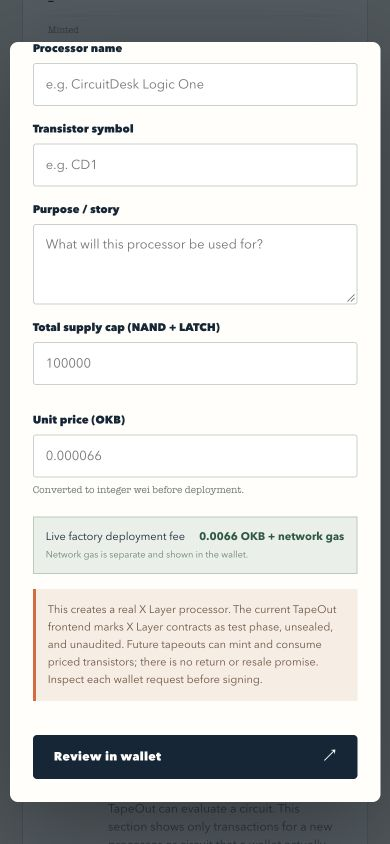
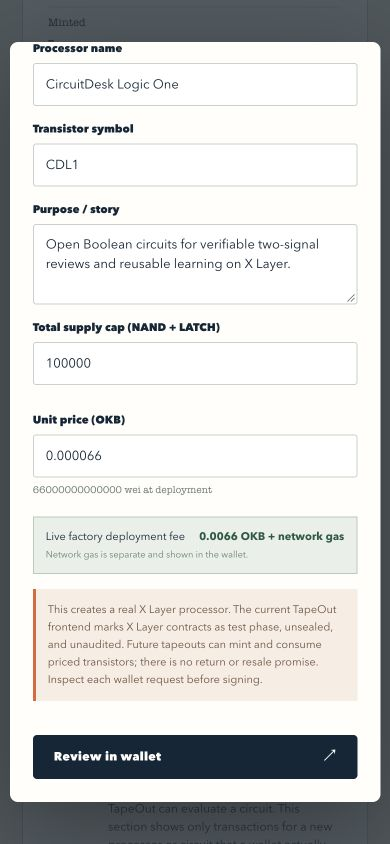
Keep the handoff aligned with the public demo we verified
The first source push exposed a working GitHub Pages build and an
independently reachable repository. This update records those observed
facts in the readiness file, form draft, QA log and hosted screenshots,
while leaving the required own-mainnet launch and video gates unmet.

Constraint: A public repository and third-party circuit reference do not satisfy the hackathon mainnet requirement.
Rejected: Mark the entry eligible after Pages went live | no CircuitDesk-owned processor or tapeout receipt exists.
Confidence: high
Scope-risk: narrow
Directive: Verify the actual processor, issuance terms, circuit and timestamps before replacing form placeholders or changing eligibility.
Tested: Unauthenticated repo and Pages reads, hosted browser eth_call, desktop/mobile responsive checks, five Node tests and JSON parse.
Not-tested: User wallet signatures, mainnet project launch, uploaded video and final Google Form submission.

diff --git a/review/qa/release-verification.md b/review/qa/release-verification.md
@@ -1,0 +1,24 @@
+# Public repository and hosted-release verification
+
+Reviewer: **strategy/QA agent C**. Read-only checks on 2026-09-30 Asia/Seoul. These checks are independent of the local Git checkout and use GitHub's remote API plus unauthenticated raw-file requests. GitHub Pages is tracked separately; creating Pages configuration alone is not proof that the site is serving the app.
+
+## Public GitHub package — PASS
+
+- Repository: [diveyreadytodive-star/circuitdesk-ignix-tapeout](https://github.com/diveyreadytodive-star/circuitdesk-ignix-tapeout). GitHub API returned `private=false`, `visibility=public`, default branch `main`.
+- Remote `main` HEAD returned **`9f4b423cef5e5829db88112bf42545e052717081`** at the time of this independent check. That was the initial pushed source commit, confirmed through GitHub API rather than the local checkout. A later evidence commit will change `main`; recheck the final HEAD after that push rather than treating this SHA as the final release revision.
+- The remote tree contained `README.md`, `LICENSE`, `web/main.js`, `tests/platform/browser.test.mjs`, and `readiness.json`.
+- Unauthenticated requests to `raw.githubusercontent.com/.../main/` returned **HTTP 200** for each required file: README (5,568 bytes), LICENSE (1,081), web app JS (44,929), tests (3,807), and readiness JSON (2,059). This independently confirms the files are public and nonempty.
+- The initial source commit's remotely fetched `readiness.json` said `eligibility: NOT_MET`, kept project processor/circuit addresses and transaction hashes `null`, `ownCircuitEthCallVerified: false`, `userVideoUrl: null`, and `formSubmitted: false`. It labeled the 100,000 cap and 0.000066 OKB price as **proposed, not deployed**. Its `remoteHeadVerified` and `hostedDemoVerified` fields were still false because it preceded this release check; the follow-up evidence commit should update only those verified delivery flags and keep mainnet/video/submission gates false.
+
+## Hosted demo — PASS for public read-only flow
+
+- Public URL: [CircuitDesk Pages](https://diveyreadytodive-star.github.io/circuitdesk-ignix-tapeout/). Unauthenticated HTTP GET returned **200** for the root (299-byte redirect document), `/web/` (15,904-byte CircuitDesk HTML), `/web/main.js` (44,929 bytes), `/src/platform/browser.js` (28,739 bytes), and `/readiness.json` (2,059 bytes). The root HTML refreshes to `web/`; the app HTML has the CircuitDesk title and relative `./main.js` and `./styles.css` references.
[1 lines of base64/hex data omitted]
+- With that matching adapter, C made a fresh **read-only** call to the existing third-party CPU #0/XOR circuit #1. At X Layer block **71989152**, input `[1,0]` returned output `[1]`, `execution: eth_call`, `transactionHash: null`. This demonstrates the published adapter's public read path, not CircuitDesk's own tapeout.
+- The leader independently opened the hosted app in IAB, observed three adapter templates and a reachable factory, and got the same public XOR output for input `1,0` at block **71989028** with no transaction. Hosted mobile 390 px had matching document/viewport scroll widths, one `h1`, and no console warnings/errors. C inspected the saved [hosted desktop](../ui/hosted-desktop.jpg) and [hosted mobile](../ui/hosted-mobile.jpg) screenshots. No wallet write was attempted.
+
+This verifies public hosting and a read-only product demo. It does **not** verify the mainnet processor/circuit issuance required for contest eligibility or any future wallet signature.
+
+## Remaining contest gate
+
+The public repo does **not** substitute for a user-signed mainnet processor creation and circuit tapeout on that processor before 2026-10-06 13:00 KST. The user video and final form submission are also pending. See [readiness.json](../../readiness.json) and [requirements-checklist.md](../../submission/requirements-checklist.md).

diff --git a/review/qa/browser-verification.md b/review/qa/browser-verification.md
@@ -1,6 +1,6 @@
 # Browser and visual verification
 
-Date: 2026-09-30 Asia/Seoul. **Leader** ran the live IAB browser against the local server at `http://127.0.0.1:4173/web/`. **Strategy/QA agent C** independently inspected all nine saved screenshots and reran the 5 Node tests. These checks show a usable development build; they do not show a user wallet transaction, our own mainnet processor, or a submitted contest entry.
+Date: 2026-09-30 Asia/Seoul. **Leader** ran the live IAB browser against the local server at `http://127.0.0.1:4173/web/` and later the public Pages URL. **Strategy/QA agent C** independently inspected all eleven saved screenshots and reran the 5 Node tests. These checks show a usable read-only build; they do not show a user wallet transaction, our own mainnet processor, or a submitted contest entry.
 
 ## Saved visual evidence
 
@@ -14,7 +14,9 @@ Date: 2026-09-30 Asia/Seoul. **Leader** ran the live IAB browser against the loc
 | Mobile landing | [mobile-landing.jpg](../ui/mobile-landing.jpg) | Header, hero and schematic reflow at 390 px viewport without horizontal clipping. |
 | Mobile workbench | [mobile-workbench.jpg](../ui/mobile-workbench.jpg) | Template panel followed by signal preview in a single-column flow. |
 | Mobile public chain result | [mobile-chain-proof.jpg](../ui/mobile-chain-proof.jpg) | Truth table, `eth_call` reference result at block 71986374, and preflight below it. The reference is labeled as an existing circuit. |
-| Mobile processor preflight | [mobile-create-preflight.jpg](../ui/mobile-create-preflight.jpg) | Processor fields, suggested 100,000 cap and 0.000066 OKB unit-price placeholders, current **0.0066 OKB + gas** creation fee, test-phase/unsealed/unaudited warning, and wallet-review CTA. This screenshot does **not** show a confirmed transaction. |
+| Hosted mobile processor preflight | [mobile-create-preflight.jpg](../ui/mobile-create-preflight.jpg) | Public Pages modal with **prefilled proposed** `CircuitDesk Logic One` / `CDL1` / purpose text, 100,000 cap, 0.000066 OKB unit price (`66,000,000,000,000` wei), live **0.0066 OKB + gas** creation fee, test-phase/unsealed/unaudited warning, and wallet-review CTA. No button click, signature or confirmed transaction is shown. |
+| Hosted desktop | [hosted-desktop.jpg](../ui/hosted-desktop.jpg) | Public Pages URL serving the CircuitDesk landing and workbench; no wallet state or own circuit is shown. |
+| Hosted mobile | [hosted-mobile.jpg](../ui/hosted-mobile.jpg) | Public Pages app at 390 px with template-to-preview single-column flow. |
 
 ## Live behavior reported by the leader
 
@@ -24,6 +26,7 @@ Date: 2026-09-30 Asia/Seoul. **Leader** ran the live IAB browser against the loc
 - Invalid CPU address ending in `dEaD` produced a friendly factory-verification error and kept tapeout disabled. Public CPU #0 has its 100,000-unit cap minted, so its tapeout preflight remained disabled by insufficient supply.
 - The create-processor dialog displayed the read live factory fee and risk warning. No wallet transaction was sent.
 - The final create-dialog source prefills exactly the reviewed **proposal** in [issuance-proposal.md](../../submission/issuance-proposal.md): `CircuitDesk Logic One`, `CDL1`, the public purpose sentence, 100,000 cap, and 0.000066 OKB per unit. These are editable inputs, not onchain values or proof of deployment.
+- On the **hosted Pages URL**, the leader's IAB pass found three adapter templates and a reachable X Layer factory. At mobile viewport 390 px, document scroll width was 390 px, there was one `h1`, and console warnings/errors were empty. The hosted app's public XOR reference returned output `1` for input `1,0` at block **71989028** through `eth_call` with no transaction. C separately checked public asset HTTP responses/hash parity and a fresh reference call; see [release QA](release-verification.md).
 
 ## Pending-write and receipt integrity checks (leader, live IAB)
 

diff --git a/submission/requirements-checklist.md b/submission/requirements-checklist.md
@@ -11,9 +11,9 @@ Status as of 2026-09-30 Asia/Seoul. **Verified** means this project has direct e
 | At least one circuit taped out on that processor in window | **Pending** | Successful mainnet receipt, circuit identity and processor link, block timestamp before 2026-10-06 13:00 KST, readback after reload. |
 | Real read-only circuit evaluation, if pitched | **Platform capability verified; our circuit pending** | An existing XOR circuit on CPU #0 returned `0,1,1,0` via chain-196 `eth_call`. Verify our own confirmed circuit against local truth table and label the result as a read-only call without a transaction hash. |
 | Clear use case | **Implemented locally; mainnet proof pending** | Guided “review disagreement check”: two manual flags, XOR truth table, component/fee preflight and public reference evaluation. It is advisory and does not enforce a release or wallet action. |
-| Product demo | **Local browser verified; public/video pending** | Localhost app captured at 1440×900 and 390×844 with no horizontal overflow and no console errors in the observed pass; [browser QA](../review/qa/browser-verification.md) records screenshots and error states. Still need public URL and user-recorded video. |
+| Product demo | **Hosted read-only build verified; user video pending** | [Public CircuitDesk app](https://diveyreadytodive-star.github.io/circuitdesk-ignix-tapeout/) and its JS/adapter assets returned HTTP 200 unauthenticated; hosted bytes matched tested source. Hosted desktop/mobile IAB and a fresh public-reference XOR `eth_call` were checked. See [release QA](../review/qa/release-verification.md). This does not show our own mainnet write; user-recorded video remains. |
 | Processor address and deployment wallet in submission | **Pending** | Verified public addresses added to README and form description. |
-| Public GitHub repository | **Created, upload not yet verified** | Repo URL: [circuitdesk-ignix-tapeout](https://github.com/diveyreadytodive-star/circuitdesk-ignix-tapeout). Confirm committed source, README, license, tests, remote HEAD and signed-out access after push. An empty repo does not close this gate. |
+| Public GitHub repository | **Verified public; recheck HEAD after each push** | [circuitdesk-ignix-tapeout](https://github.com/diveyreadytodive-star/circuitdesk-ignix-tapeout) was public at the independently checked initial source commit; unauthenticated raw requests returned HTTP 200 for README, LICENSE, app JS, tests and readiness JSON. The exact final remote HEAD should be verified after each subsequent push and reported separately. See [release QA](../review/qa/release-verification.md). |
 | No fake trading or fabricated usage | **Design constraint** | Never generate wash/matched/self trades or invent adoption. Keep separate transaction evidence. |
 | Contract security/economic model | **Proposal and local tests; mainnet risk remains** | Five Node tests pass; guarded Anvil fork completed create→mint→tapeout→eval, and exact [issuance proposal](issuance-proposal.md) separates three paid wallet actions. TapeOut's client warns X Layer contracts are in a test phase, unsealed, and not independently audited; no contract audit or real wallet write was performed. |
 | User contact and final form | **Reserved for user** | User enters Telegram/contact email, uploads video, reviews all fields and clicks Submit. Save actual receipt after submission. |

diff --git a/submission/form-draft.md b/submission/form-draft.md
@@ -11,7 +11,7 @@ CircuitDesk
 ```text
 CircuitDesk helps a newcomer understand and publish a small Boolean circuit on a TapeOut processor on X Layer. Its first task is a review disagreement check: two manually entered pass/needs-work flags feed XOR, which returns 1 when reviewers disagree. A guided template shows the local truth table, required components, and transaction terms before signing. After a confirmed tapeout, a shareable circuit passport links the processor, circuit ID, issuance settings, and X Layer receipt for independent verification. A separate read-only eth_call evaluates a deployed circuit; it has no transaction receipt and does not enforce a release decision.
 
-Our processor on X Layer mainnet (chain 196): [VERIFY processor contract address]. Deployment wallet: [VERIFY public wallet address]. TapeOut factory: 0x1f09daefa827f02cbb40967cc91b259763760761. Transistor supply: [VERIFY supply and units]. Unit price: [VERIFY amount, OKB and units]. Cap: [VERIFY value and scope]. Processor creation receipt: [VERIFY explorer URL]. Circuit taped out on our processor within the window: [VERIFY circuit ID, tapeout transaction URL and block timestamp]. Read-only evaluation of our circuit: [VERIFY public circuit URL/readback]. Live demo: [VERIFY public URL]. Video walkthrough: [USER VIDEO URL]. GitHub: https://github.com/diveyreadytodive-star/circuitdesk-ignix-tapeout [VERIFY remote files after push].
+Our processor on X Layer mainnet (chain 196): [VERIFY processor contract address]. Deployment wallet: [VERIFY public wallet address]. TapeOut factory: 0x1f09daefa827f02cbb40967cc91b259763760761. Transistor supply: [VERIFY supply and units]. Unit price: [VERIFY amount, OKB and units]. Cap: [VERIFY value and scope]. Processor creation receipt: [VERIFY explorer URL]. Circuit taped out on our processor within the window: [VERIFY circuit ID, tapeout transaction URL and block timestamp]. Read-only evaluation of our circuit: [VERIFY public circuit URL/readback]. Live demo: https://diveyreadytodive-star.github.io/circuitdesk-ignix-tapeout/. Video walkthrough: [USER VIDEO URL]. GitHub: https://github.com/diveyreadytodive-star/circuitdesk-ignix-tapeout.
 
 The product makes no investment-return or artificial-usage claim. TapeOut's X Layer frontend warns its contracts are in a test phase, unsealed and not independently audited. Processor creation, transistor mint, and tapeout are separate wallet transactions; a paid mint may remain in the wallet without a circuit if tapeout does not confirm, and earlier spend/gas is not reversed. Costs, recipients and risks are disclosed before signing and in the README.
 ```
@@ -30,7 +30,7 @@ Leave blank unless the user supplies the project account.
 
 ## GitHub Repository — required
 
-`https://github.com/diveyreadytodive-star/circuitdesk-ignix-tapeout` — **verify remote HEAD and signed-out file access before pasting**.
+`https://github.com/diveyreadytodive-star/circuitdesk-ignix-tapeout` — public repository and files verified in [release QA](../review/qa/release-verification.md).
 
 ## X Post Link — optional
 

diff --git a/decisions/round-3-judge-demo-review.md b/decisions/round-3-judge-demo-review.md
@@ -41,3 +41,7 @@ Date: 2026-09-30 Asia/Seoul. Reviewers: leader (live browser and integration evi
 4. Replace all form-draft markers with actual public evidence, have the user record/upload the video, then let the user complete contact fields and the final form submission. Preserve the real confirmation receipt.
 
 Until gates 2–3 pass, a public repository, hosted demo, screenshot, local fork, or third-party sample circuit **does not satisfy mainnet eligibility**.
+
+## Post-review release update
+
+The dedicated [public repository](https://github.com/diveyreadytodive-star/circuitdesk-ignix-tapeout) was pushed; its initial source commit `9f4b423…` was confirmed at remote `main` during independent release QA. A subsequent evidence commit will change the final HEAD, which must be rechecked after push. The [hosted read-only app](https://diveyreadytodive-star.github.io/circuitdesk-ignix-tapeout/) and its adapter assets returned HTTP 200 unauthenticated; hosted asset hashes matched the tested source, and the public XOR reference still evaluated by `eth_call`. See [release QA](../review/qa/release-verification.md). Exit gate 1 is met for public source and read-only hosting. Own mainnet processor/circuit, user video and final form remain unmet.

diff --git a/review/ui/verification.md b/review/ui/verification.md
@@ -15,6 +15,7 @@ Date: 2026-09-30 (Asia/Seoul)
 - `desktop-chain-proof.jpg`, `mobile-chain-proof.jpg`: browser preview alongside real public X Layer read-only result.
 - `desktop-processor.jpg`, `mobile-create-preflight.jpg`: processor verification and deployment terms.
 - `desktop-public-reference-receipt.jpg`: A real external TapeOut circuit transaction independently rechecked with the adapter. Its card explicitly says third-party and does not claim CircuitDesk ownership.
+- `hosted-desktop.jpg`, `hosted-mobile.jpg`: The public GitHub Pages build after the first source push; same app loaded without signing in, and the hosted mobile viewport had no horizontal overflow.
 
 The commercial reference captures used for internal comparison are in `/private/tmp/circuitlab-reference.jpg` and `/private/tmp/everycircuit-reference.jpg`; they are not project assets and should not be published.
 
